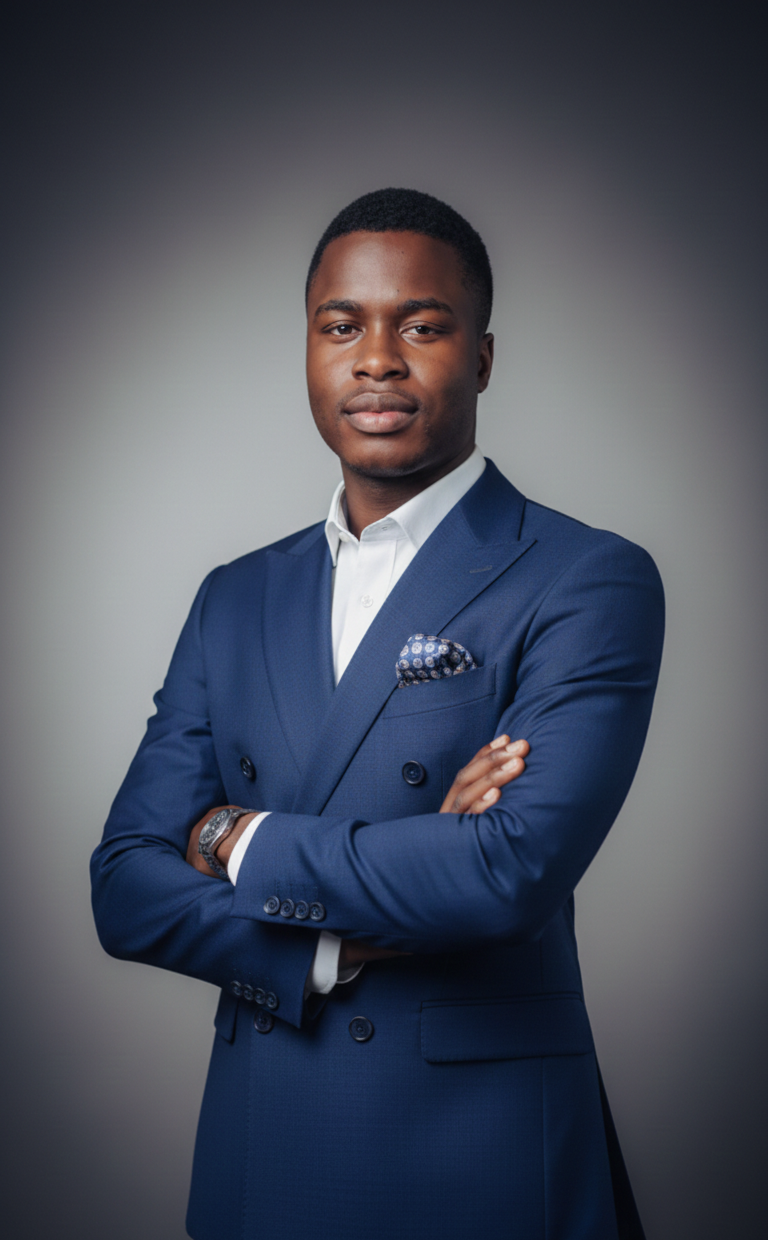
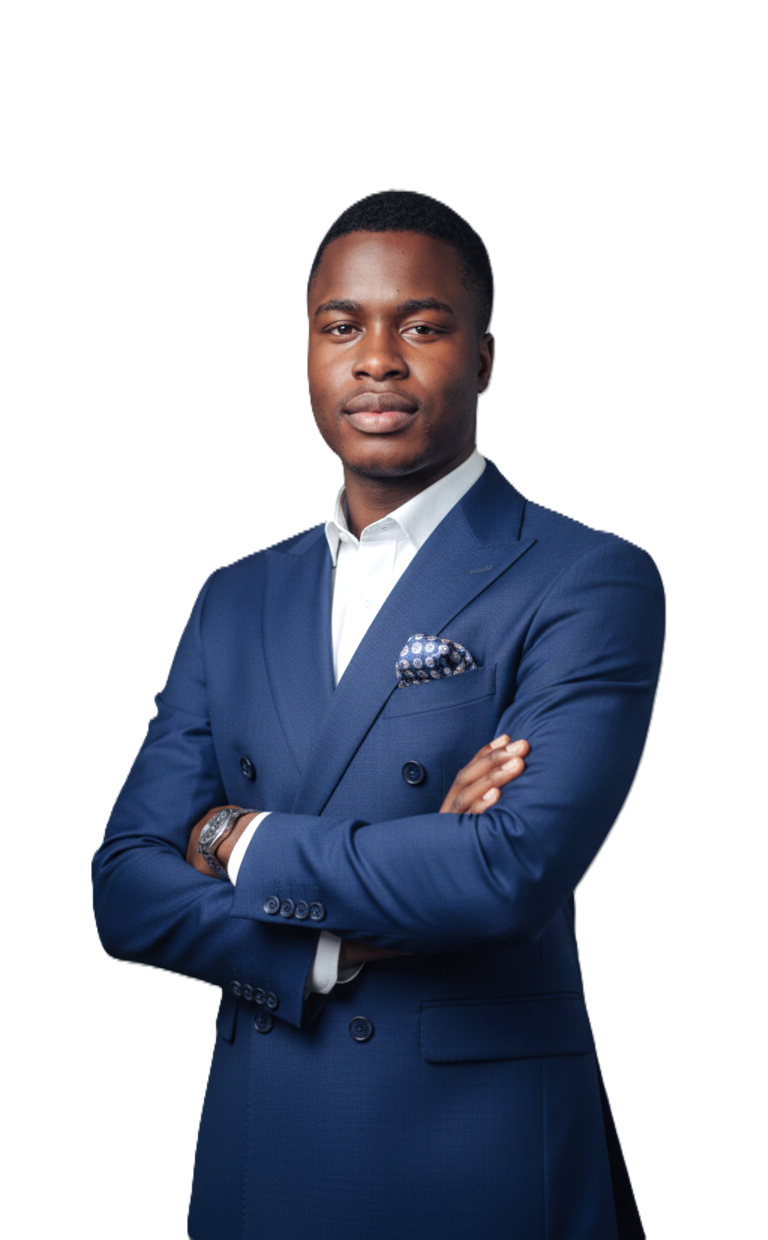
feat: Implement initial Hero and Projects sections, add new image assets, and set up the application layout.

diff --git a/components/sections/ProjectsSection.tsx b/components/sections/ProjectsSection.tsx
@@ -11,41 +11,42 @@ const projects = [
     category: "Agence Événementielle",
     description:
       "Maximiser la performance d'équipe par des packages d'épanouissement.",
-    image: "/Branding-images/02MASTER_CLASS2.png",
+    image: "/part-logo/FUNIFY.png",
   },
   {
     title: "NEW SOLUTION STYLE (NSS)",
     category: "Branding & Couture",
     description:
       "Branding complet pour un atelier de haute couture et modélisme.",
-    image: "/Branding-images/04.png",
+    image: "/part-logo/new-solution-style.jpg",
   },
   {
     title: "HMA4S.ATE",
     category: "Stratégie ONG",
     description:
       "Stratégie de communication digitale pour une ONG dédiée au développement.",
-    image: "/Branding-images/06.png",
+    image: "/part-logo/HMA4s.ate.jpeg",
   },
   {
-    title: "ELITE TRADING",
-    category: "Identité Visuelle",
+    title: "TRAVELAS",
+    category: "Agence de Voyage",
     description:
-      "Identité visuelle et design d'E-books pour la gestion de capitaux.",
-    image: "/Branding-images/07.png",
+      "Identité visuelle et branding pour une agence de voyage moderne.",
+    image: "/part-logo/TRAVELAS.jpg",
   },
   {
     title: "NEW SAMUEL SHOP ONLINE",
     category: "E-commerce Fashion",
     description:
       "Branding & Identité Visuelle pour une boutique en ligne tendance.",
-    image: "/Branding-images/08.png",
+    image: "/part-logo/NSSO.png",
   },
   {
-    title: "SOCIAL MEDIA & ADS",
-    category: "Campagnes Publicitaires",
-    description: "Interventions graphiques pour diverses marques et campagnes.",
-    image: "/Branding-images/09.png",
+    title: "OPTIMA",
+    category: "Identité Visuelle",
+    description:
+      "Création de logo et identité visuelle pour une marque premium.",
+    image: "/part-logo/optima-logo.png",
   },
 ];
 
@@ -82,7 +83,7 @@ export function ProjectsSection() {
               transition={{ delay: index * 0.1 }}
               className="group bg-white rounded-3xl overflow-hidden shadow-lg hover:shadow-2xl transition-all duration-300 border border-transparent hover:border-brand-orange/20"
             >
-              <div className="relative h-[250px] w-full bg-gray-200 overflow-hidden">
+              <div className="relative h-[250px] w-full bg-gray-200 overflow-hidden border-b border-gray-900">
                 <Image
                   src={project.image}
                   alt={project.title}

diff --git a/components/sections/HeroSection.tsx b/components/sections/HeroSection.tsx
@@ -70,12 +70,12 @@ export function HeroSection() {
             className="relative flex justify-center items-center"
           >
             {/* Abstract Background Shapes */}
-            <div className="absolute w-[400px] h-[400px] bg-brand-blue/10 rounded-full animate-pulse" />
-            <div className="absolute w-[350px] h-[350px] bg-brand-orange/10 rounded-full translate-x-10 translate-y-10" />
+            <div className="absolute left-1/2 top-1/2 -translate-x-1/2 -translate-y-1/2 w-[400px] h-[400px] bg-brand-blue/80 rounded-full animate-pulse" />
+            <div className="absolute left-1/2 top-1/2 -translate-x-1/2 -translate-y-1/2 w-[350px] h-[350px] bg-brand-orange/90 rounded-full" />
 
             {/* Profile Image Container */}
-            <div className="relative z-10 w-[350px] lg:w-[420px] aspect-[4/5] rounded-[2rem] overflow-hidden shadow-2xl rotate-3 hover:rotate-0 transition-all duration-500 glass-panel p-2">
-              <div className="w-full h-full rounded-[1.5rem] overflow-hidden relative bg-gray-200">
+            <div className="relative z-10 w-[350px] lg:w-[420px] aspect-4/5 rounded-[2rem] overflow-hidden shadow-2xl rotate-3 hover:rotate-0 transition-all duration-500 glass-panel p-2">
+              <div className="w-full h-full">
                 <Image
                   src="/Branding-images/01-Master-Class.png"
                   alt="Fredy Dieuba"

diff --git a/app/layout.tsx b/app/layout.tsx
@@ -24,7 +24,7 @@ export default function RootLayout({
   children: React.ReactNode;
 }>) {
   return (
-    <html lang="en">
+    <html lang="en" suppressHydrationWarning>
       <body
         className={`${geistSans.variable} ${geistMono.variable} antialiased`}
       >
